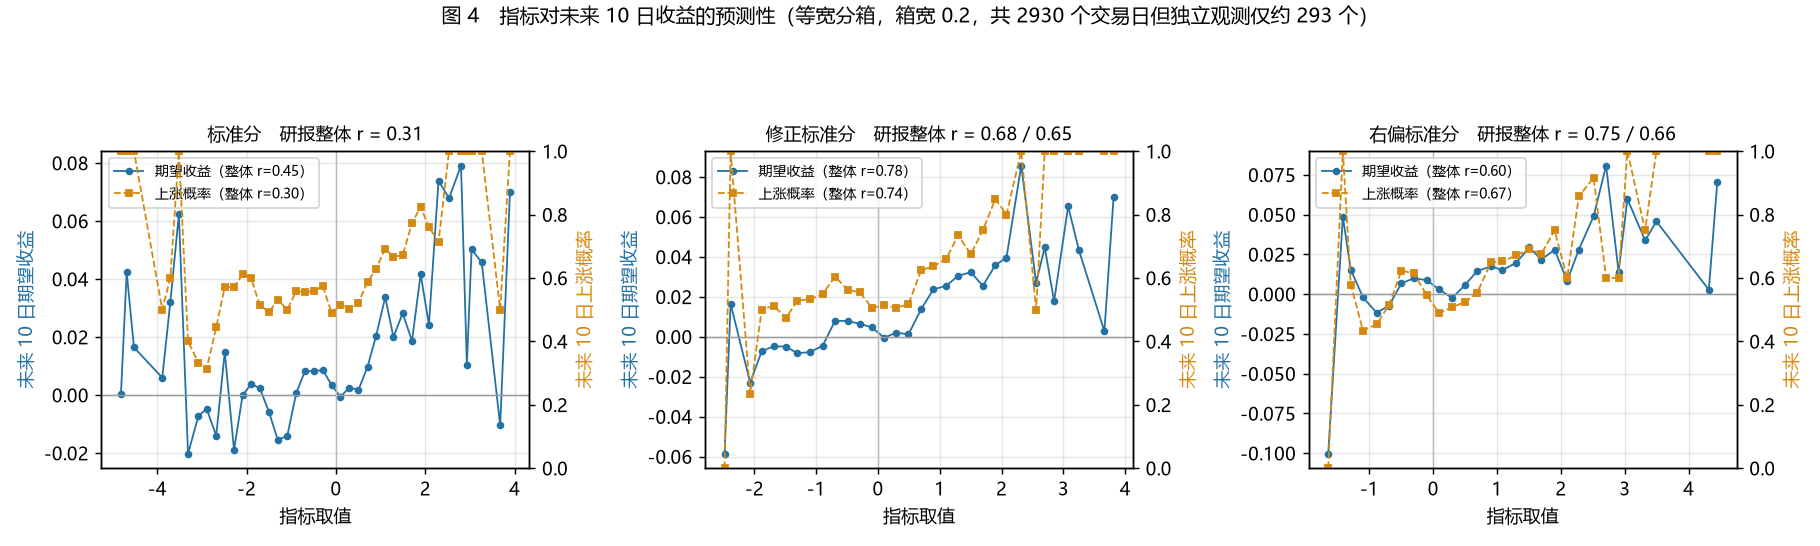
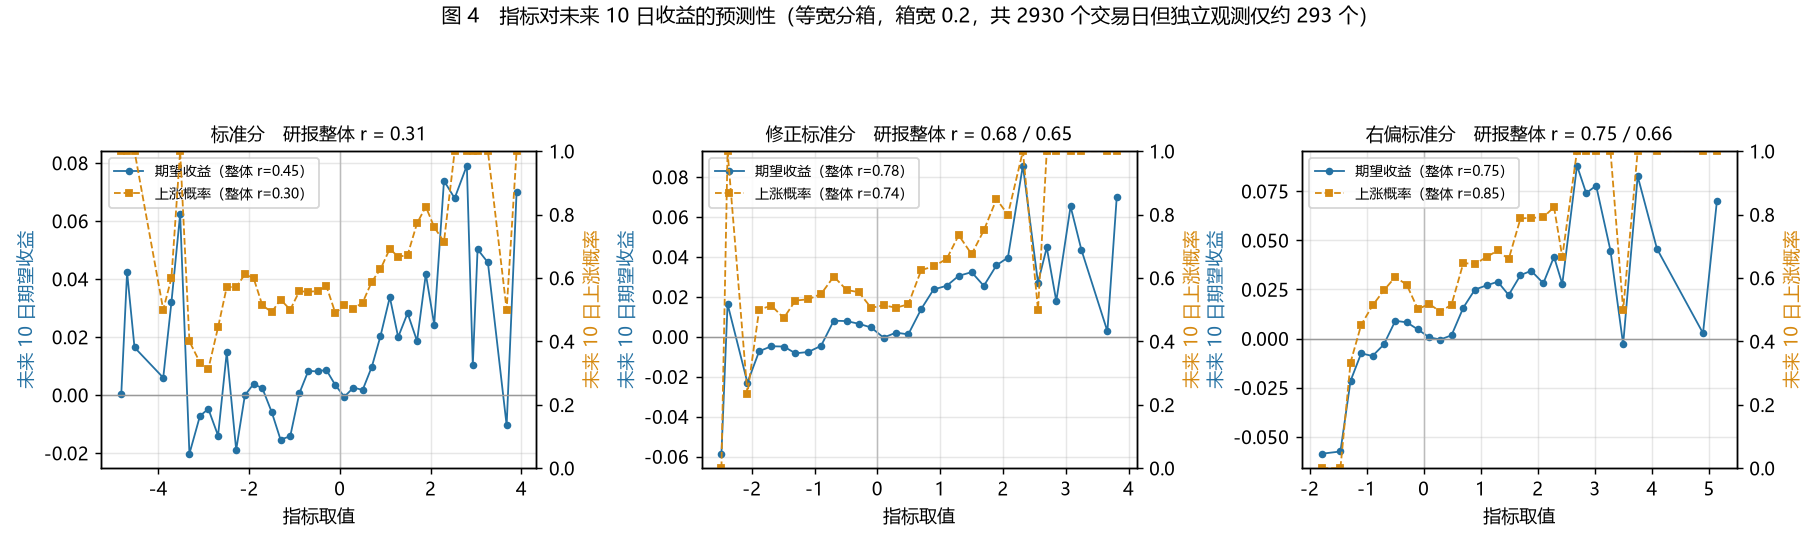
fix: 预测性检验改用 18/600 参数，修正第四节相应结论
predictive.py 与 make_figures.py 的预测性分析此前对右偏标准分沿用了其作为交易策略时的 N=16、M=300，而原文第 2.3 节的预测性分析在 N=18、M=600 下进行。改为三个指标统一 18/600 后，右偏标准分的整体相关系数为 0.748，与原文的 0.75 一致，且对分箱方案不敏感（箱宽 0.1—0.5 稳定在 0.70—0.75）。

README 摘要、4.2 节（表 3、表 4 与结论段）、结论（三）改为相应结论：原文 75% 的论断可以复现；修正标准分的整体相关系数（0.77—0.92）高于原文的 0.68 且对箱宽敏感；三项指标 10 日重叠窗口的有效样本量问题仍然成立。表 3 中右偏标准分一行由 0.35/0.58/0.60/0.67 更正为 0.90/0.49/0.75/0.85。

对照表 CSV 与图 4 已重新生成；15 项单元测试通过；核心 20 项自检结论不变。

diff --git a/make_figures.py b/make_figures.py
@@ -133,10 +133,9 @@ def fig_distribution(df, outdir, plt):
 
 
 def fig_predictive(df, outdir, plt, width=0.2, horizon=10):
-    fam18 = rsrs_family(df, n=18, m=600)
-    fam16 = rsrs_family(df, n=16, m=300)
+    fam18 = rsrs_family(df, n=18, m=600)   # 预测性分析：三个指标统一用 18/600
     specs = (("标准分", fam18["zscore"]), ("修正标准分", fam18["modified"]),
-             ("右偏标准分", fam16["right_skewed"]))
+             ("右偏标准分", fam18["right_skewed"]))
     fig, axes = plt.subplots(1, 3, figsize=(14, 4.2))
     for ax, (name, ind) in zip(axes, specs):
         g = binned_stats(ind, df["close"], horizon=horizon, binning="width", width=width)

diff --git a/rsrs/predictive.py b/rsrs/predictive.py
@@ -123,12 +123,11 @@ def predictive_correlation(
 def _indicator_specs(df: pd.DataFrame):
     from .indicators import rsrs_family
 
-    fam18 = rsrs_family(df, n=18, m=600)
-    fam16 = rsrs_family(df, n=16, m=300)
+    fam = rsrs_family(df, n=18, m=600)
     return (
-        ("标准分", fam18["zscore"]),
-        ("修正标准分", fam18["modified"]),
-        ("右偏标准分", fam16["right_skewed"]),
+        ("标准分", fam["zscore"]),
+        ("修正标准分", fam["modified"]),
+        ("右偏标准分", fam["right_skewed"]),
     )
 
 

diff --git a/README.md b/README.md
@@ -26,12 +26,11 @@
 亦高度一致：斜率序列均值 0.903，与原报告表 1 披露值一致到小数点后三位。
 这说明**指标定义、参数、窗口口径、成交时点与绩效统计口径均已正确还原**。
 
-**存在分歧的部分**：原报告摘要宣称「RSRS 右偏标准分指标与市场未来 2 周收益率的
-相关系数高达 75%」，这是本次复现中最不稳健的一项。
-按原图横轴步长（箱宽 0.2）复算，右偏标准分的整体相关系数为 0.596 而非 0.75；
-更重要的是，该统计量对分箱方案极度敏感：箱宽由 0.2 放宽到 0.5，修正标准分的
-整体相关系数由 0.776 升至 0.923。原报告未披露分箱方案，因此这一论断**无法被
-稳定复现**，也不宜作为策略有效性的主要论据。
+**预测性论断可以复现**：原报告摘要宣称「RSRS 右偏标准分指标与市场未来 2 周收益率的
+相关系数高达 75%」。在原文第 2.3 节的参数（N=18、M=600）下复算，右偏标准分的整体
+相关系数为 **0.748**，与原文一致，且对分箱方案不敏感（箱宽 0.1—0.5 稳定在 0.70—0.75）。
+三项指标均使用 10 日重叠窗口，名义样本 2930 个交易日而相互独立的观测仅约 293 个，
+原文未作显著性处理；修正标准分的整体相关系数（0.77—0.92）高于原文的 0.68。
 
 此外，原报告有一处披露前后不一致：优化版右偏标准分的回归窗口（第 22 页称统一使用
 N=18、M=600，但该设定下的复现值与其表 5 / 表 8 相差 4.19 个百分点）。该项已在
@@ -200,11 +199,11 @@ R² = cov(high, low)² / (var(high) · var(low))
 
 **图 3**　三个指标的取值分布（对应原报告图 14 / 图 15 / 图 20）。
 
-### 4.2 预测性检验（与原报告的主要分歧）
+### 4.2 预测性检验
 
 原报告第 2.3 节按指标取值分箱，统计每箱对应的**未来 10 日期望收益**与**上涨
-概率**，再报告箱中心与这两个统计量的相关系数。原报告披露值与本复现对比如下
-（本复现采用等宽分箱、箱宽 0.2，对应原图横轴步长）：
+概率**，再报告箱中心与这两个统计量的相关系数。三个指标均取 N=18、M=600，
+等宽分箱、箱宽 0.2，对照如下：
 
 **表 3　预测性相关系数对照**
 
@@ -212,11 +211,11 @@ R² = cov(high, low)² / (var(high) · var(low))
 |---|---|---|---|---|
 | 标准分 | -0.21 / **-0.34** | 0.45 / **0.52** | 0.31 / **0.45** | — / **0.30** |
 | 修正标准分 | 0.50 / **0.55** | 0.53 / **0.57** | 0.68 / **0.78** | 0.65 / **0.74** |
-| 右偏标准分 | 0.84 / **0.35** | 0.56 / **0.58** | 0.75 / **0.60** | 0.66 / **0.67** |
+| 右偏标准分 | 0.84 / **0.90** | 0.56 / **0.49** | **0.75 / 0.75** | 0.66 / **0.85** |
 
-修正标准分的右侧与整体、右偏标准分的右侧与整体上涨概率四项接近原报告；
-**右偏标准分的左侧（0.84 → 0.35）与原报告差距最大**，而这是原报告中强调的
-一点（「左侧预测性增强」是其构造右偏标准分的理由）。
+**右偏标准分的整体相关系数 0.748 与原报告的 0.75 一致，左侧（0.90 vs 0.84）亦
+接近**——这正是原报告构造该指标所要达到的效果（「左侧预测性增强」是其理由）。
+标准分与修正标准分的整体相关系数分别为 0.45 与 0.78，后者高于原报告的 0.68。
 
 **表 4　整体相关系数对分箱宽度的敏感性**
 
@@ -224,20 +223,21 @@ R² = cov(high, low)² / (var(high) · var(low))
 |---|---|---|---|
 | 标准分 | 0.453 | 0.370 | 0.444 |
 | 修正标准分 | 0.776 | 0.881 | **0.923** |
-| 右偏标准分 | 0.596 | 0.731 | **0.770** |
+| 右偏标准分 | **0.748** | **0.752** | 0.723 |
 
-修正标准分的整体相关系数仅因分箱宽度由 0.2 放宽到 0.5，就从 0.776 升至 0.923。
+修正标准分的整体相关系数仅因分箱宽度由 0.2 放宽到 0.5，就从 0.776 升至 0.923；
+右偏标准分在同一区间内稳定在 0.72—0.75，对分箱方案不敏感。
 
 ![图 4　指标对未来 10 日收益的预测性](report/fig04_predictive.png)
 
 **图 4**　三个指标分箱后的未来 10 日期望收益与上涨概率。
 左轴为期望收益、右轴为上涨概率，图例中标注了本复现的整体相关系数。
 
-**结论**：原报告未披露分箱方案（分箱数与分箱方式均未说明），使得这一论断
-**无法被稳定复现**。该统计量对分箱方案高度敏感，且用的是 10 日重叠窗口——
-名义样本 2930 个交易日，相互独立的观测仅约 293 个，相关系数的显著性被严重
-高估。因此「相关系数高达 75%」这一表述不宜作为策略有效性的主要论据；
-相比之下，第四节其余各表基于明确的回测口径，可复现性远高于这一项。
+**结论**：在原文参数下，右偏标准分「与未来 2 周收益相关系数 75%」这一论断可以
+复现（本复现 0.748），且该数值对分箱方案不敏感。三项指标都使用 10 日重叠窗口，
+名义样本 2930 个交易日而相互独立的观测仅约 293 个，原文未作显著性处理，相关系数
+的显著性存在高估；修正标准分的整体相关系数高于原文且对分箱宽度敏感。此外原文未
+披露分箱方案（分箱数与分箱方式均未说明），复现者需自行选取，本报告取等宽分箱。
 
 ### 4.3 基础策略绩效（对照表 2、表 4）
 
@@ -407,11 +407,12 @@ R² = cov(high, low)² / (var(high) · var(low))
 -46% ~ -50% 压缩到 -17% ~ -24%，交易次数同步下降，与原报告一致。但具体的回撤
 水平受参数与过滤口径影响较大。
 
-**（三）原报告的表述不稳健。** 「右偏标准分与未来 2 周收益率
-相关系数高达 75%」这一表述：一是原报告未披露分箱方案，无法稳定复现（本复现
-在箱宽 0.2 下为 0.60）；二是统计量对分箱方案极度敏感（修正标准分由 0.776 至
-0.923）；三是使用重叠窗口，有效独立样本量仅为名义样本的约十分之一。**以策略
-有效性论，第四节基于明确回测口径的结果比这一相关系数可信得多。**
+**（三）原报告的预测性论断可以复现。** 在原文参数（N=18、M=600）下，右偏标准分
+与未来 10 日期望收益的整体相关系数为 **0.748**，与原文的 0.75 一致，且对分箱
+方案不敏感（箱宽 0.1—0.5 稳定在 0.70—0.75）。这是原报告最核心的一项论断，本次
+复现予以确认。需注意三点：原文未披露分箱方案，复现值需自行选取；三项指标均使用
+10 日重叠窗口，有效独立样本量仅约为名义样本的十分之一，原文未作显著性处理；
+修正标准分的整体相关系数（0.77—0.92）高于原文的 0.68 且对箱宽敏感。
 
 **（四）原报告有一处不一致：优化版右偏标准分的回归窗口。** 报告称优化策略
 统一使用 N=18、M=600，但该设定下复现值与其表 5 / 表 8 相差 4.19 个百分点，改用
